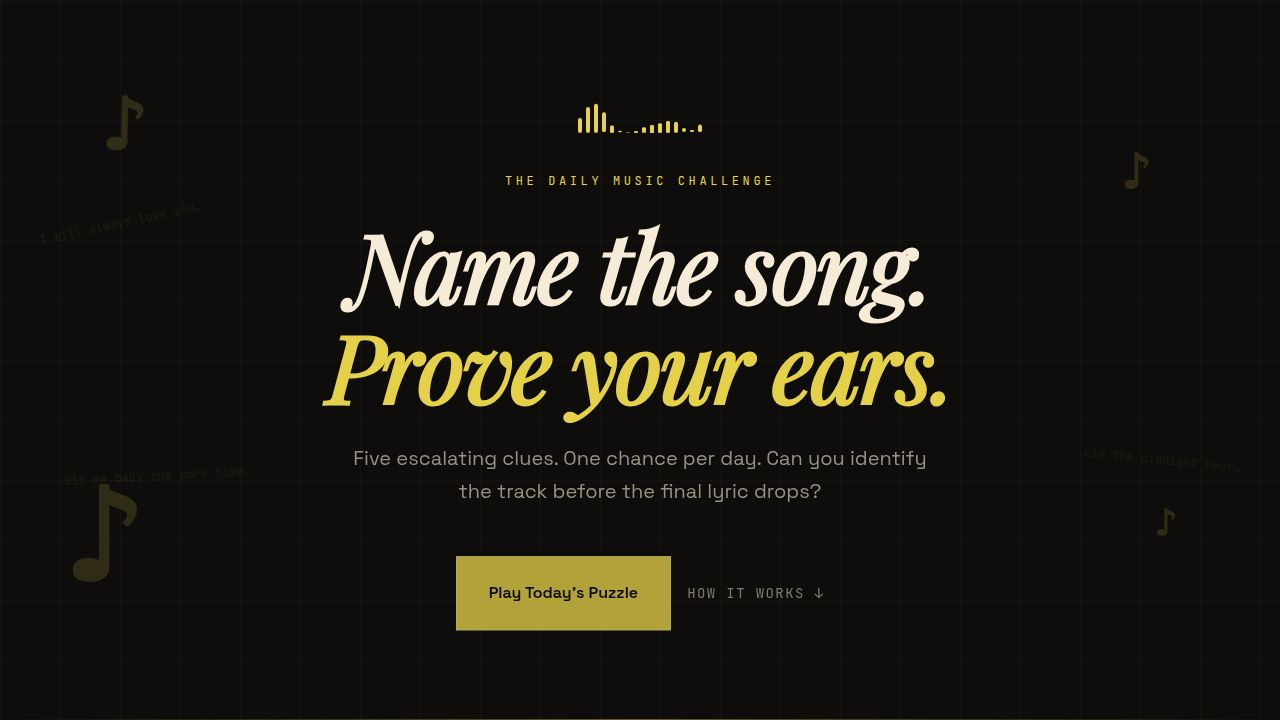
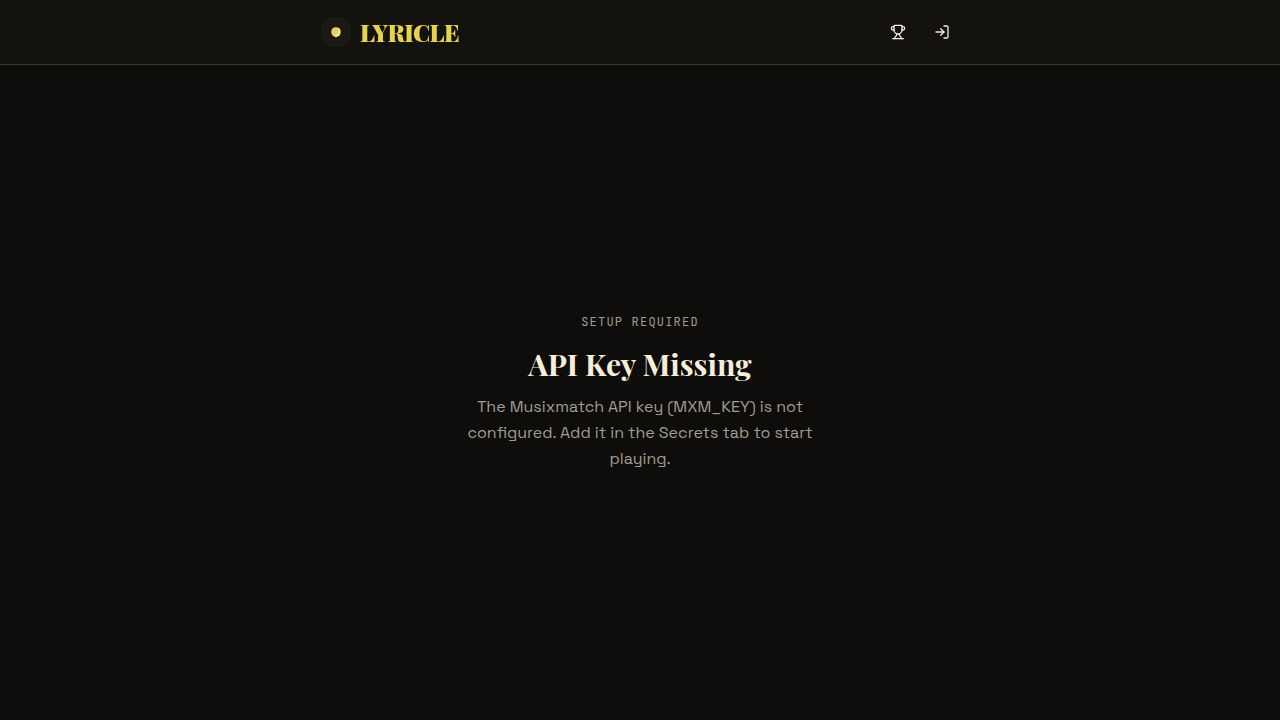
feat: shareable Wordle-style emoji result card (Task #4)
## What changed
Updated `artifacts/lyricle/src/components/ResultModal.tsx` to implement
a proper Wordle-style emoji share card with the following improvements:

### Share text format (exact spec match)
- Winning: `🎵 Lyricle #170 — Got it in 3/5`
- Losing:  `🎵 Lyricle #170 — Didn't get it`
- Emoji grid: 🟡 for wrong guesses, 🟢 for the correct guess, ⬜ for unused stages
- Footer line: `window.location.origin` (correct domain at runtime)

### Web Share API + clipboard fallback
- On mobile browsers that support `navigator.share`, opens the native share sheet
- AbortError (user dismissed share sheet) is silently swallowed — no toast
- If share fails for another reason, falls back to `navigator.clipboard.writeText`
- Toast "Copied to clipboard!" only fires on clipboard path
- Error toast shown if clipboard also fails

### Visual emoji grid in modal
- Added an inline emoji grid (🟡/🟢/⬜ in 3xl text) displayed in the result
  modal above the streak/timer row, giving players a preview before sharing
- Uses `data-testid="emoji-grid"` for testability

### Minor cleanup
- Swapped unused `Copy` icon for `Share2` from lucide-react
- Removed unused `Clock` and `formatDistanceToNow` imports

## No deviations from spec
All requirements met: emoji grid, correct format, clipboard toast, Web Share API with fallback.

Replit-Task-Id: 83c61a20-25f4-455f-b297-6d1dabbc87c4

diff --git a/artifacts/lyricle/src/components/ResultModal.tsx b/artifacts/lyricle/src/components/ResultModal.tsx
@@ -1,10 +1,9 @@
 import { useEffect, useState } from "react";
 import { Dialog, DialogContent, DialogHeader, DialogTitle, DialogDescription, DialogFooter } from "@/components/ui/dialog";
 import { Button } from "@/components/ui/button";
-import { Copy, Trophy, BarChart2, Clock } from "lucide-react";
+import { Share2, Trophy, BarChart2 } from "lucide-react";
 import { useGetPuzzleAnswer, useGetPlayerStreak } from "@workspace/api-client-react";
 import { getGetPuzzleAnswerQueryKey, getGetPlayerStreakQueryKey } from "@workspace/api-client-react";
-import { formatDistanceToNow } from "date-fns";
 import { toast } from "@/hooks/use-toast";
 import { DailyState } from "@/lib/storage";
 
@@ -43,14 +42,40 @@ export default function ResultModal({ open, onOpenChange, state, onOpenStats, on
     return () => clearInterval(interval);
   }, [open]);
 
-  const handleShare = () => {
-    const squares = state.guesses.map(g => g.correct ? "🟩" : "⬛").join("");
-    const skips = Array(5 - state.guesses.length).fill("🟨").join("");
-    
-    const text = `🎵 Lyricle #${state.puzzleNumber}\n${state.won ? "✅" : "❌"} ${state.won ? `Got it in ${state.guesses.length}/5!` : "Didn't get it"}\n${squares}${skips}\nNext puzzle in ${timeLeft}\n${window.location.origin}`;
-    
-    navigator.clipboard.writeText(text);
-    toast({ title: "Copied to clipboard!", description: "Share your result with friends." });
+  const buildEmojiGrid = () => {
+    return state.guesses.map((g, i) => {
+      if (g.correct) return "🟢";
+      if (i === state.guesses.length - 1 && !state.won) return "🟡";
+      return "🟡";
+    }).join("") + Array(5 - state.guesses.length).fill("⬜").join("");
+  };
+
+  const buildShareText = () => {
+    const grid = buildEmojiGrid();
+    const resultLine = state.won
+      ? `🎵 Lyricle #${state.puzzleNumber} — Got it in ${state.guesses.length}/5`
+      : `🎵 Lyricle #${state.puzzleNumber} — Didn't get it`;
+    return `${resultLine}\n${grid}\n${window.location.origin}`;
+  };
+
+  const handleShare = async () => {
+    const text = buildShareText();
+
+    if (navigator.share) {
+      try {
+        await navigator.share({ text });
+        return;
+      } catch (err) {
+        if ((err as DOMException).name === "AbortError") return;
+      }
+    }
+
+    try {
+      await navigator.clipboard.writeText(text);
+      toast({ title: "Copied to clipboard!", description: "Share your result with friends." });
+    } catch {
+      toast({ title: "Could not copy", description: "Please copy the result manually.", variant: "destructive" });
+    }
   };
 
   return (
@@ -77,6 +102,17 @@ export default function ResultModal({ open, onOpenChange, state, onOpenStats, on
           </div>
         )}
 
+        <div className="flex justify-center py-3">
+          <div className="flex gap-1.5 text-3xl" data-testid="emoji-grid">
+            {state.guesses.map((g, i) => (
+              <span key={i}>{g.correct ? "🟢" : "🟡"}</span>
+            ))}
+            {Array(5 - state.guesses.length).fill(null).map((_, i) => (
+              <span key={`empty-${i}`}>⬜</span>
+            ))}
+          </div>
+        </div>
+
         <div className="grid grid-cols-2 gap-4 py-4 border-y border-border/50">
           <div className="text-center">
             <div className="text-2xl font-mono font-bold">{streak?.currentStreak || 0}</div>
@@ -90,7 +126,7 @@ export default function ResultModal({ open, onOpenChange, state, onOpenStats, on
 
         <DialogFooter className="flex flex-col sm:flex-row gap-2 pt-4">
           <Button onClick={handleShare} className="flex-1 gap-2 font-bold" data-testid="button-share">
-            <Copy className="w-4 h-4" /> Share
+            <Share2 className="w-4 h-4" /> Share
           </Button>
           <Button variant="outline" onClick={onOpenLeaderboard} className="flex-1 gap-2" data-testid="button-results-leaderboard">
             <Trophy className="w-4 h-4" /> Leaderboard